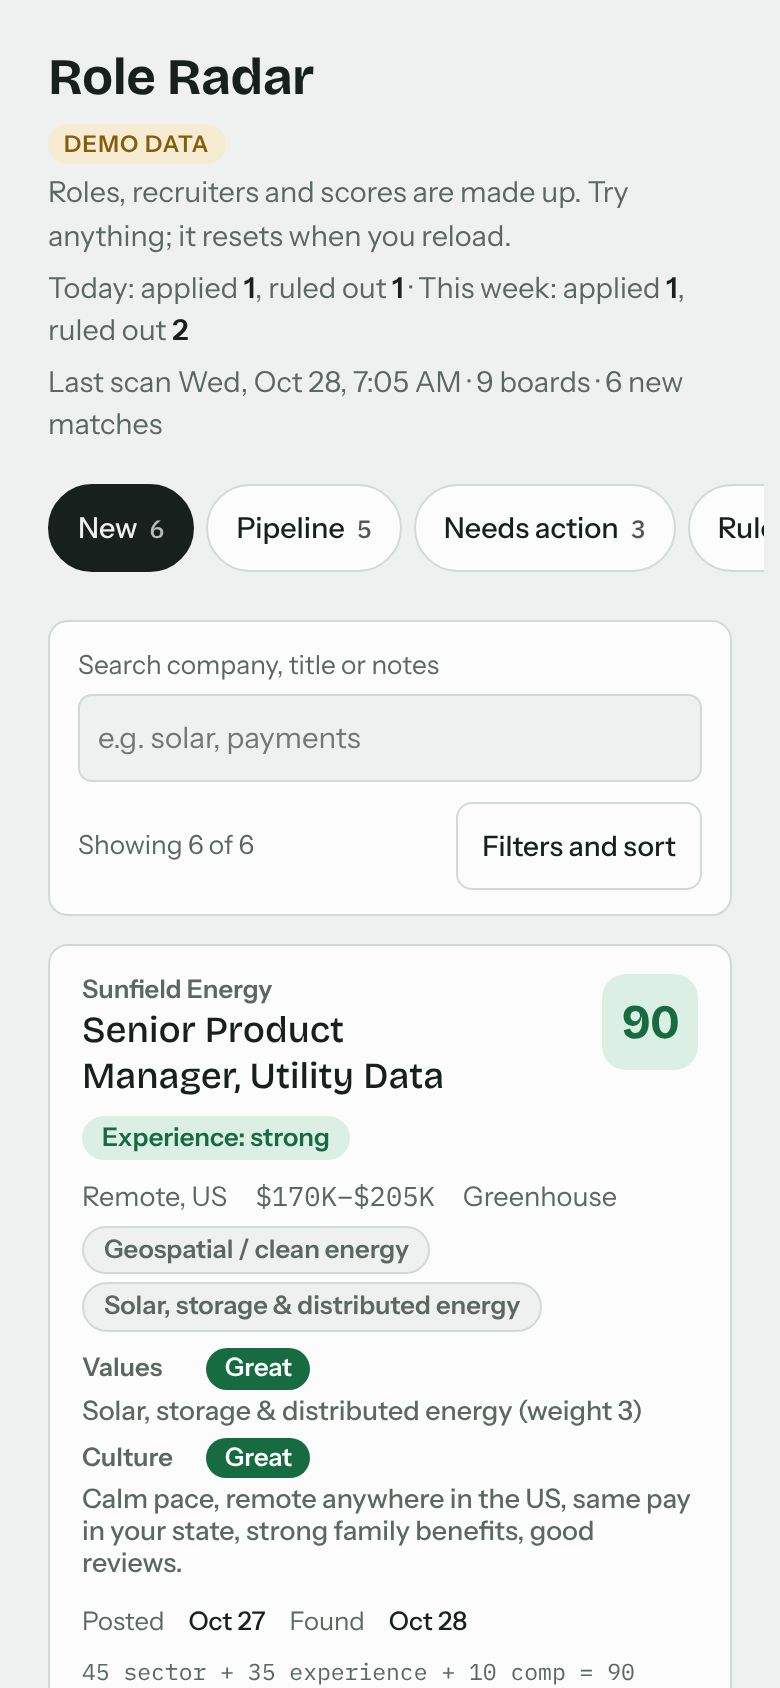
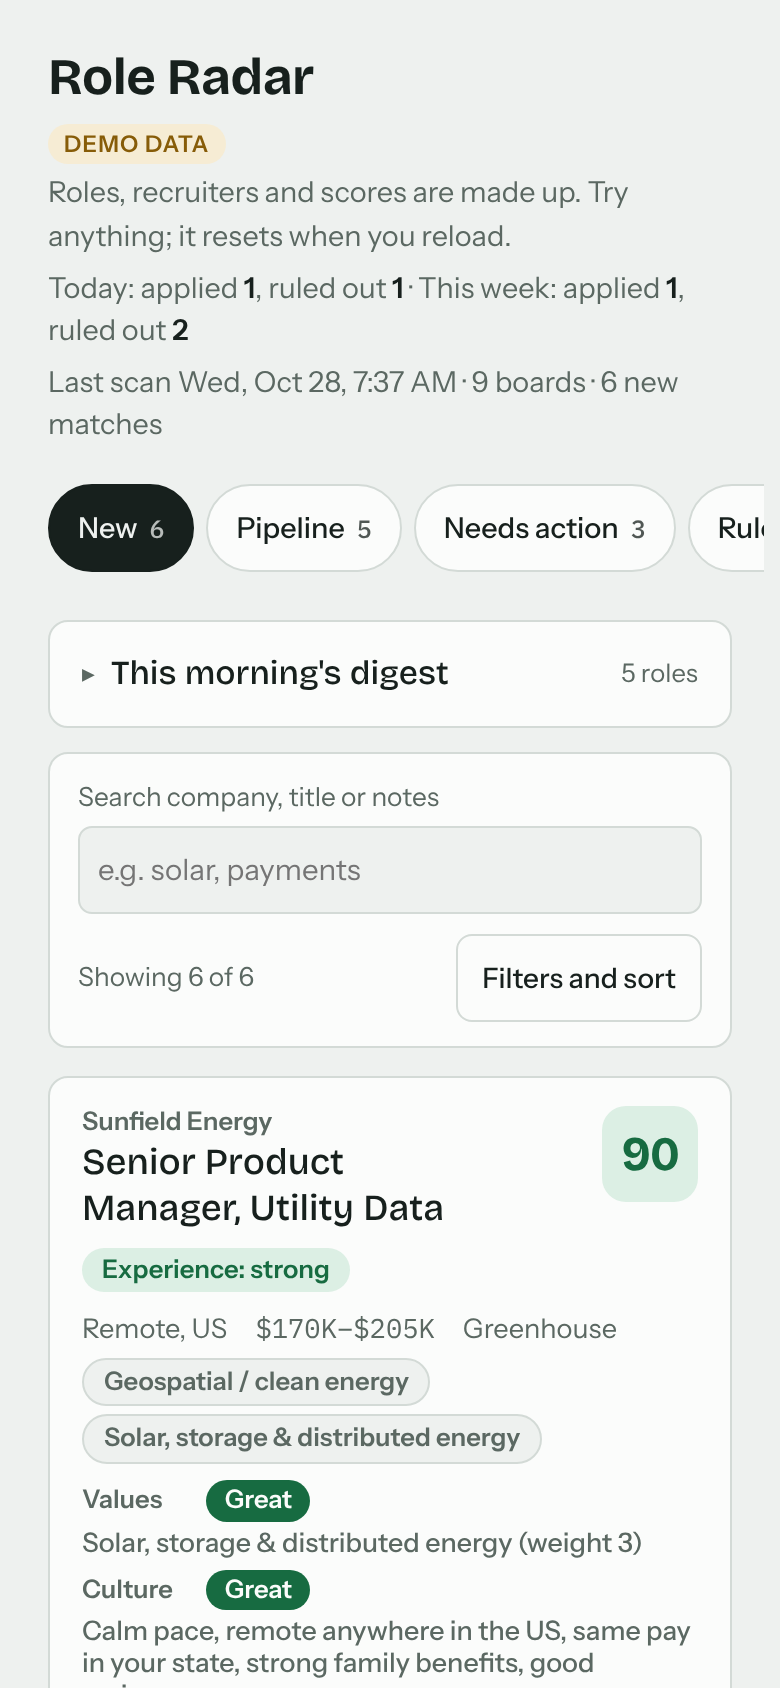
RR-M3.5: this morning's digest card and deep links
Claude-Session: https://claude.ai/code/session_01S2xZTupe2qe2vZrkJ8z2XQ

diff --git a/app/role-radar.html b/app/role-radar.html
@@ -232,6 +232,23 @@ details.more form{display:grid;gap:10px;padding-top:10px}
 .dig{display:grid;gap:6px;margin:0;padding:0;list-style:none}
 .dig li{display:grid;grid-template-columns:auto minmax(0,1fr);gap:2px 10px;align-items:baseline}
 .dig .sub2{grid-column:2;color:var(--muted);font-size:.8rem}
+/* This morning's digest: a compact card at the top of New; each entry jumps to its role card. */
+#digestCard{gap:0;padding:4px 16px;margin-bottom:12px}
+#digestCard>summary{display:flex;align-items:center;gap:8px;min-height:44px;cursor:pointer;list-style:none}
+#digestCard>summary::-webkit-details-marker{display:none}
+#digestCard>summary::before{content:"\25B8";font-size:.8em;color:var(--muted)}#digestCard[open]>summary::before{content:"\25BE"}
+#digestCard>summary h2{flex:1;min-width:0}
+#digestCard>summary .hint{white-space:nowrap}
+#digestCard .dig{gap:2px;padding:2px 0 10px}#digestCard .dig li{display:block}
+#digestCard .dig a{display:grid;grid-template-columns:3.2em minmax(0,1fr);gap:10px;align-items:center;min-height:36px;padding:2px 6px;margin-inline:-6px;border-radius:7px;color:var(--ink);text-decoration:none;font-size:.9rem}
+#digestCard .dig a .score{text-align:center}
+#digestCard .dig a .t{overflow-wrap:anywhere}#digestCard .dig a b{font-weight:600}
+#digestCard .dig a:hover .t{color:var(--accent);text-decoration:underline}
+#digestCard .dig a:focus-visible{outline:2px solid var(--accent);outline-offset:1px}
+#digestCard>.hint{margin:0 0 10px}
+@media (max-width:600px), (pointer:coarse){#digestCard .dig a{min-height:44px}#digestCard>summary{padding-block:0}}
+@media (min-width:900px){#digestCard .dig{display:block;columns:2;column-gap:20px;padding-bottom:8px}#digestCard .dig li{break-inside:avoid}#digestCard .dig a{min-height:30px;padding-block:1px}#digestCard .dig a .t{white-space:nowrap;overflow:hidden;text-overflow:ellipsis}#digestCard>summary{min-height:40px}}
+.job{scroll-margin-top:72px}.job:focus{outline:none}.job.target{border-color:var(--accent);box-shadow:0 0 0 2px var(--accent-soft)}
 .arules{display:grid;gap:6px;margin:0;padding:0;list-style:none}.arules li{display:grid;grid-template-columns:4.2rem minmax(0,1fr);gap:10px;align-items:baseline}
 .lvl{font:600 .8rem var(--f-body);text-align:center;padding:3px 6px;border-radius:999px;background:var(--accent-soft);color:var(--accent)}.lvl.loud{background:var(--bad-soft);color:var(--bad)}.lvl.off{background:transparent;color:var(--muted);border:1px solid var(--line)}
 .privbar{display:flex;gap:12px;align-items:center;justify-content:space-between;flex-wrap:wrap;margin:0 0 12px}.privbar .hint{margin:0;max-width:65ch}
@@ -352,10 +369,19 @@ let jobsState="loading", dbChecked=false;
 let tab="inbox", jobs=[], companies=[], filters=null, scan=null, db=null, view={...DEF_VIEW}, openMore=new Set(), skipOpen=null;
 try{const t=localStorage.getItem("rr-tab"); if(t==="people"&&TOOLS) savedTab=t; else if(TABS.some(x=>x.id===t)) tab=t; const v=JSON.parse(localStorage.getItem("rr-view")||"null"); if(v) view={...DEF_VIEW,...v};}catch(e){}
 const saveView=()=>{try{localStorage.setItem("rr-view",JSON.stringify(view))}catch(_){}};
+// Deep links: ?tab=<id> opens a tab (it beats the remembered one), #role-<id> jumps to a role card.
+// A tab this viewer can't see (Recruiters on the public build) or an unknown id never opens; the URL drops it.
+function setUrlTab(t,hash=""){ try{ const u=new URL(location.href); if(t) u.searchParams.set("tab",t); else u.searchParams.delete("tab"); u.hash=hash; history.replaceState(history.state,"",u.href); }catch(_){} }
+let urlTab=null, deepRole=null;
+try{ const q=new URLSearchParams(location.search).get("tab");
+  if(q!==null){ if(q==="people"&&TOOLS){ urlTab=q; savedTab=q; } else if(TABS.some(x=>x.id===q&&x.id!=="people")){ urlTab=q; tab=q; savedTab=null; } else setUrlTab(null,location.hash); }
+  const h=decodeURIComponent(location.hash.slice(1)); if(/^role-/.test(h)) deepRole=h; }catch(_){}
 
 const $=s=>document.querySelector(s);
 // Only http(s) links from scan or email data become clickable.
 const safeUrl=u=>/^https?:\/\//i.test(String(u||"").trim())?String(u).trim():"";
+// A role card's anchor: id="role-<_id>", limited to safe id characters, so #role-<id> links can find it.
+const roleAnchor=id=>"role-"+String(id??"").replace(/[^A-Za-z0-9_-]/g,"_");
 const esc=s=>String(s??"").replace(/[&<>"']/g,c=>({"&":"&amp;","<":"&lt;",">":"&gt;",'"':"&quot;","'":"&#39;"}[c]));
 const fmtDate=s=>{if(!s)return"";const d=new Date(String(s).length===10?s+"T12:00:00":s);return isNaN(d)?esc(s):d.toLocaleDateString(undefined,{month:"short",day:"numeric"});};
 const today=()=>{const d=new Date();return d.getFullYear()+"-"+String(d.getMonth()+1).padStart(2,"0")+"-"+String(d.getDate()).padStart(2,"0");};
@@ -504,7 +530,7 @@ function jobCard(j){
       <textarea name="skipNote" maxlength="300" aria-label="What made it a no" placeholder="What made it a no? e.g. Belfast office only, always-on culture, title is really a Director"></textarea>
       <p class="err" data-skiperr role="alert" hidden></p>
       <div class="go"><button class="primary" type="submit">Skip role</button><button class="linkbtn" type="button" data-skipcancel="1">Cancel</button></div></form>`:"";
-  return `<article class="job${preview===j._id?" sel":""}">
+  return `<article class="job${preview===j._id?" sel":""}" id="${roleAnchor(j._id)}" tabindex="-1">
     <div class="top"><div class="head">
       <div class="co">${esc(j.company)}</div>
       <h2>${url?`<a href="${esc(url)}" target="_blank" rel="noopener" data-view="${id}" data-preview="${id}">${esc(title)}</a>`:sample?`<a href="#preview" role="button" data-preview="${id}">${esc(title)}</a>`:esc(title)}</h2>
@@ -635,10 +661,22 @@ function addRoleForm(){
       <label for="aj-st">Status<select id="aj-st">${STATUSES.filter(([v])=>["saved","applying","applied"].includes(v)).map(([v,l])=>`<option value="${v}">${l}</option>`).join("")}</select></label>
     </div><button class="primary" type="submit">Add role</button></form></details>`;
 }
+// "This morning's digest" at the top of New: what the weekday scan would send, ranked as the Criteria preview ranks it.
+// Open on wide screens, a one-line summary on phones; the viewer's own toggle is kept across redraws.
+let digestOpen=null;
+function digestCard(){
+  if(!SC||!specData) return "";
+  const d=digestOf(specData); if(!d) return "";
+  const open=digestOpen??(typeof matchMedia==="function"&&matchMedia("(min-width:900px)").matches);
+  const n=d.items.length;
+  const body=n?`<ol class="dig">${d.items.map(x=>{const a=roleAnchor(x.job._id); return `<li><a href="#${a}" data-role="${a}" title="${esc(x.job.company)} · ${esc(x.job.title)}"><span class="score${x.result.score>=70?" hi":""}">${esc(x.result.score)}</span><span class="t"><b>${esc(x.job.company)}</b> · ${esc(x.job.title)}</span></a></li>`;}).join("")}</ol>`
+    :`<p class="hint">Nothing in New clears the minimum score yet.</p>`;
+  return `<details class="ccard" id="digestCard"${open?" open":""}><summary><h2>This morning's digest</h2><span class="hint">${n} ${n===1?"role":"roles"}</span></summary>${body}</details>`;
+}
 function renderJobs(){
   const base=jobs.filter(j=>inTab(j,tab));
   const list=sortList(applyView(base));
-  const head=filterBar()+(tab==="pipeline"?(TOOLS?gmailStatus():"")+addRoleForm():"");
+  const head=(tab==="inbox"?digestCard():"")+filterBar()+(tab==="pipeline"?(TOOLS?gmailStatus():"")+addRoleForm():"");
   let body;
   if(!list.length){
     const msg=base.length?["No roles match these filters","Clear a filter to see more."]:{inbox:["Nothing new right now","The morning scan adds matching roles here. Open one and it's marked viewed; save or skip it to clear it out."],
@@ -996,11 +1034,12 @@ function alertsPreview(spec){
     :`<p class="hint">Nothing on this page would alert right now.</p>`;
   return rules+how+now;
 }
+// The digest ranking (scoring.js buildDigest over the roles in New): shared by the Criteria preview and the New tab card.
+function digestOf(spec){ const pool=jobs.filter(j=>INBOX.includes(st(j))); return pool.length?SC.buildDigest(pool,spec):null; }
 function digestPreview(spec){
   if(!SC||!spec) return `<p class="hint">Preview needs a valid spec.</p>`;
-  const pool=jobs.filter(j=>INBOX.includes(st(j)));
-  if(!pool.length) return `<p class="hint">No new roles to rank yet.</p>`;
-  const d=SC.buildDigest(pool,spec);
+  const d=digestOf(spec);
+  if(!d) return `<p class="hint">No new roles to rank yet.</p>`;
   const labels=Object.fromEntries((Array.isArray(spec.sectors)?spec.sectors:[]).map(s=>[s.id,s.label||s.id]));
   const extra=Object.entries(d.extras).map(([k,n])=>k==="_overflow"?`+${n} more past the digest limit`:`+${n} more ${esc(labels[k]||k)} (capped)`);
   return (d.items.length?`<ol class="dig">${d.items.map(x=>`<li><span class="score${x.result.score>=70?" hi":""}">${x.result.score}</span><span>${esc(x.job.company)} · ${esc(x.job.title)}</span><span class="sub2">${esc(x.result.sector.label||"Other")} · ${esc(SC.explain(x.result))}</span></li>`).join("")}</ol>`:`<p class="hint">Nothing in New clears the minimum score.</p>`)
@@ -1042,7 +1081,7 @@ function acceptSuggestion(id){
   const base=critDraft??(criteria&&criteria.spec)??"";
   const next=SF.applyToYaml(base,sg.change,window.jsyaml&&window.jsyaml.load);
   if(next===null){ toast("Couldn't place that change in criteria.yaml. Add it on the Criteria tab by hand."); return; }
-  critDraft=next; critErr=""; critFrom=sg; tab="criteria"; try{localStorage.setItem("rr-tab",tab)}catch(_){} render();
+  critDraft=next; critErr=""; critFrom=sg; tab="criteria"; try{localStorage.setItem("rr-tab",tab)}catch(_){} setUrlTab(tab); render();
   toast("Added to the editor. Review it, then Save criteria.");
   requestAnimationFrame(()=>document.getElementById("fromSkips")?.scrollIntoView({block:"center"}));
 }
@@ -1119,7 +1158,10 @@ function render(){
   if(JOB_TABS.includes(tab)&&jobsState!=="ready"){v.innerHTML=loadState();return;}
   if(tab==="ruled"){v.innerHTML=renderRuled();return;}
   if(tab==="progress"){v.innerHTML=renderProgressTab();return;}
+  // Reused cards keep their focus across a redraw (a #role- link or digest jump stays put when data arrives).
+  const fa=document.activeElement, keep=fa&&fa.closest&&fa.closest("#view .list article.job")?fa:null;
   const r=renderJobs(); v.innerHTML=r.html; if(r.shown) { const l=v.querySelector(".list"); l.classList.toggle("long",r.shown>=200); l.replaceChildren(...cardEls(r.list)); }
+  if(keep&&keep.isConnected&&document.activeElement!==keep) keep.focus({preventScroll:true});
   const c=$("#fcount"); if(c) c.textContent=r.total?`Showing ${r.shown} of ${r.total}`:"";
 }
 // Skip a full redraw while someone is typing in a form, so edits aren't lost.
@@ -1232,7 +1274,25 @@ async function copyText(s){
   try{ await navigator.clipboard.writeText(s); return true; }catch(_){}
   try{ const ta=$("#applyText"); ta.focus(); ta.select(); return document.execCommand("copy"); }catch(_){ return false; }
 }
+// Focuses and scrolls to a role card by its anchor. If the current tab (or its filters) hides the role, switches
+// to All roles, clearing filters only when they hide it there too. Unknown anchors are ignored.
+function focusRole(anchor){
+  if(!jobs.some(x=>roleAnchor(x._id)===anchor)) return false;
+  const find=()=>{const el=document.getElementById(anchor); return el&&el.matches("#view article.job")?el:null;};
+  let el=find();
+  if(!el){ tab="all"; view.status=""; saveView(); setUrlTab(tab,anchor); render(); el=find(); }
+  if(!el){ view={...DEF_VIEW,sort:view.sort}; saveView(); render(); el=find(); }
+  if(!el) return false;
+  el.classList.add("target"); el.addEventListener("blur",()=>el.classList.remove("target"),{once:true});
+  el.focus({preventScroll:true});
+  el.scrollIntoView({block:"start",behavior:matchMedia("(prefers-reduced-motion: reduce)").matches?"auto":"smooth"});
+  return true;
+}
+document.addEventListener("toggle",e=>{ if(e.target&&e.target.id==="digestCard") digestOpen=e.target.open; },true);
+addEventListener("hashchange",()=>{ try{ const h=decodeURIComponent(location.hash.slice(1)); if(/^role-/.test(h)&&jobsState==="ready") focusRole(h); }catch(_){} });
 document.addEventListener("click",async e=>{
+  const dl=e.target.closest&&e.target.closest("#digestCard a[data-role]");
+  if(dl){ e.preventDefault(); focusRole(dl.dataset.role); return; }
   if(e.target.closest("#pvClose")){ closePreview(); return; }
   const pv=e.target.closest("[data-preview]");
   // A plain click on the title previews; Cmd/Ctrl/Shift/middle click still opens the posting in a new tab.
@@ -1275,7 +1335,7 @@ document.addEventListener("click",async e=>{
   if(e.target.id==="ftoggle"){ filtersOpen=!filtersOpen; render(); return; }
   if(e.target.id==="fclear"){ view={...DEF_VIEW,sort:view.sort}; saveView(); render(); return; }
   const t=e.target.closest("[data-tab]");
-  if(t){tab=t.dataset.tab; view.status=""; saveView(); try{localStorage.setItem("rr-tab",tab)}catch(_){} render(); return;}
+  if(t){tab=t.dataset.tab; view.status=""; saveView(); try{localStorage.setItem("rr-tab",tab)}catch(_){} setUrlTab(tab); render(); return;}
   const fa=e.target.closest("[data-fbaccept]");
   if(fa){ acceptSuggestion(fa.dataset.fbaccept); return; }
   const fd=e.target.closest("[data-fbdismiss]");
@@ -1415,10 +1475,11 @@ render();
   recStore=RS?RS.create({db,user,publicView:!TOOLS}):null;
   if(recStore) await recStore.init();
   if(savedTab&&showPeople()) tab=savedTab;
+  if(urlTab==="people"&&tab!=="people") setUrlTab(null,location.hash);
   render();
   // A failed read logs only which collection failed, never the error (it can carry data or links).
   const readFailed=name=>()=>console.warn("Role Radar: couldn't read "+name);
-  db.collection("jobs").onSnapshot(s=>{jobs=s.docs.map(d=>({...d.data(),_id:d.id})); jobsState="ready"; softRender();},()=>{readFailed("jobs")(); jobsState="error"; render();});
+  db.collection("jobs").onSnapshot(s=>{jobs=s.docs.map(d=>({...d.data(),_id:d.id})); jobsState="ready"; softRender(); if(deepRole){ const r=deepRole; deepRole=null; setTimeout(()=>focusRole(r),0); }},()=>{readFailed("jobs")(); jobsState="error"; render();});
   db.collection("companies").onSnapshot(s=>{companies=s.docs.map(d=>({...d.data(),_id:d.id})); if(tab==="watch"&&document.activeElement?.closest("form")) {renderTabs(); return;} if(tab==="watch") render(); else renderTabs();},readFailed("companies"));
   db.doc("meta/filters").onSnapshot(s=>{filters=s.exists?s.data():null; if(tab==="filters"&&document.activeElement?.closest("form")) return; softRender();},readFailed("meta/filters"));
   db.doc("meta/config").onSnapshot(s=>{setConfig(s.exists?s.data():null); softRender();},readFailed("meta/config"));

diff --git a/HANDOFF.md b/HANDOFF.md
@@ -107,12 +107,13 @@ _Updated 2026-10-24._
 - RR-M3.2 works for real (`claude/project-thread-6wmh2k-m3-2`, stacked on #42): 11 tests in `tests/works-for-real.test.mjs`, red first. (1) An empty tracker shows the criteria editor with "Start from the example" (the repo's `criteria.yaml` is embedded in the page; `tests/example-criteria.test.mjs` keeps them in sync). (2) "Scan hasn't run since …" when the last scan is 2+ weekdays old (`scanStale` in `src/progress.js`, New York time). (3) Job tabs show "Loading your roles…" until the first read and a "Couldn't load your roles" alert with Reload on a read error, never an empty tracker; failed reads log only the collection name. (4) Adding a role or company that's already tracked changes nothing and says so (a vetoed company stays vetoed). Demo mock gains test-only `?fail=jobs` and `?hold=jobs`. 229 tests, green 3x. No new supporting file.
 - RR-M3.3 UI to 8/10 (`claude/project-thread-6wmh2k-m3-3`, stacked on M3.2), round 1: ux-reviewer 5/10 before (390: 4.5, 1280: 5.5), 6.5/10 after. `tests/ui-polish.test.mjs` RR-UX3-1..7, red first: score is a 48px tile top-right; phone tabs are one scrolling row (still not sticky) so the first card is above the fold; full-width phone titles; one filled primary action per card (`.btn.cta`); aligned Values/Culture rows; accent links; 16px body and one sentence-case label style. README screenshots regenerated. 236 tests, green 3x. Round 2: RR-UX4-1..8 red first, then fixed: filters fold behind the toggle at every width (supersedes the old "wide screen shows filters" test, rewritten to the new rule), 44px Pipeline section rows, phone fit reasons on their own line, at most one accent action per card, "Start from the example" primary on an empty editor, "Open Criteria" on a first-run New tab, compact score math, a solid error card with a filled Reload. 244 tests, green 3x. Screenshots regenerated. ux-reviewer after round 2: 7.0/10 (390 and 1280); next gap is the laptop first screen (tabs wrap to 2 rows, 3-4 grey header lines).
 - RR-M3.4 harden (`claude/project-thread-6wmh2k-m3-4`, stacked on M3.3): new `.github/workflows/ci.yml` runs the personal-data check, `npm test` (unit + browser tests in Chromium) and the demo build on every PR and push to main; `pages.yml` now deploys only after `ci` succeeds on a push to main (`workflow_run`), with Pages write permissions on the deploy job only; `.github/dependabot.yml` (npm + actions, weekly, grouped); README CI badge. qa-tdd sweep mapped every core flow to tests and added `tests/hardening-4.test.mjs` (RR-H-11..28) and `tests/ci-config.test.mjs`: 11 real bugs, all fixed (Save details now redraws, long strings no longer widen the page, blank inputs refused with a message, "Untitled role", unknown statuses shown honestly, YAML lists refused, null Gmail messages skipped, 2,000 roles: All tab 6.6s -> 0.7s, search 7.7s -> 0.2s). privacy-security: safe to ship, no P0/P1. 265 tests, green 3x. First CI run caught a timing flake in the skip-form focus check (read focus the same tick as the click); the test now waits for focus.
+- RR-M3.5 enhancements (`claude/project-thread-6wmh2k-m3-5`, stacked on M3.4), picked for recruiter impact: (1) "This morning's digest" card at the top of New (what the scan would send, from a shared `digestOf()` that the Criteria preview also uses; open at 900px+, collapsed on phones; entries jump to the role). (2) Deep links: `?tab=<id>` (hidden tabs never open from a link), tab clicks keep the URL in sync, `#role-<id>` focuses a role card. `tests/enhancements.test.mjs` RR-M3.5-1..14, red first. 279 tests, green 3x.
 - Night shift 2026-10-23 (hardening), draft PR #31: done and marked ready. Round 3 review found nothing at P2 or above (one P2 leftover also fixed: dates and pay inside sentences now use the body font). 127 tests, green 3x.
 - Power hour (Chase, 2026-10-22): PRs #20-#25 (recruiter-ready) and #16 (dream-role anchors, 93/93 tests on the merge) are merged to main. PR #18 (job description preview) merged 2026-10-23 after bringing main in; live page republished with `posting.js` the same day.
 - Public demo: merged (PR #17), repo renamed to `role-radar`, redeployed, Pages green after #25. Waiting on a phone check of the live URL and https, and on the portfolio repoint (intake with Chase).
 
 ## Exact next step
-- RR-M3: next is M3.5 enhancements ("This morning's digest" card on New, deep links), then M3.6 demo check + final UI round (RR-UX5-1 tabs one row at 1280, RR-UX5-2 one header meta line, RR-UX5-3 no Apply on applied cards), then M3.7 reusable blocks. After merge: confirm the first `ci` run is green on GitHub and Pages still deploys. Waiting on Chase: `republish` (live page lacks the culture gate and the M3 fixes) and `scan on` (the weekday scan is off).
+- RR-M3: next is M3.6 demo check + final UI round (RR-UX5-1 tabs one row at 1280, RR-UX5-2 one header meta line, RR-UX5-3 no Apply on applied cards), then M3.7 reusable blocks. After merge: confirm the first `ci` run is green on GitHub and Pages still deploys. Waiting on Chase: `republish` (live page lacks the culture gate and the M3 fixes) and `scan on` (the weekday scan is off).
 - Skip feedback (this branch): Chase merges PR #39 then this PR. A session republishes the live page with the new supporting file `skip-feedback.js` (plus `scoring.js`, `gmail-import.js`, `posting.js`, `alerts.js`, `progress.js`, `recruiter-store.js`) and `capabilities` = `app/capabilities.json`. Then the scan owner copies the SKIP FEEDBACK step from `scan/scan-prompt.template.md` into the private scan prompt. Intake skill: an intake No's `skipNote` is now required (it already writes one).
 - Progress tab (this branch): Chase merges, then a session republishes the live page with the new supporting file `progress.js` (plus the existing five) and `capabilities` = `app/capabilities.json`. Then backfill `skippedBy: "rule"` on the live skips from the Oct 26 criteria cleanup (14 of 17 live skips, per the family-email thread) so the header and email stop counting them. Intake skill: an intake No should also write `skippedBy: "owner"` (unset already counts as owner, so this is optional).
 - Studio refresh: Chase merges the PR. From then on every PR here needs an `Agents:` line (code changes name qa-tdd), or agents-check fails.
